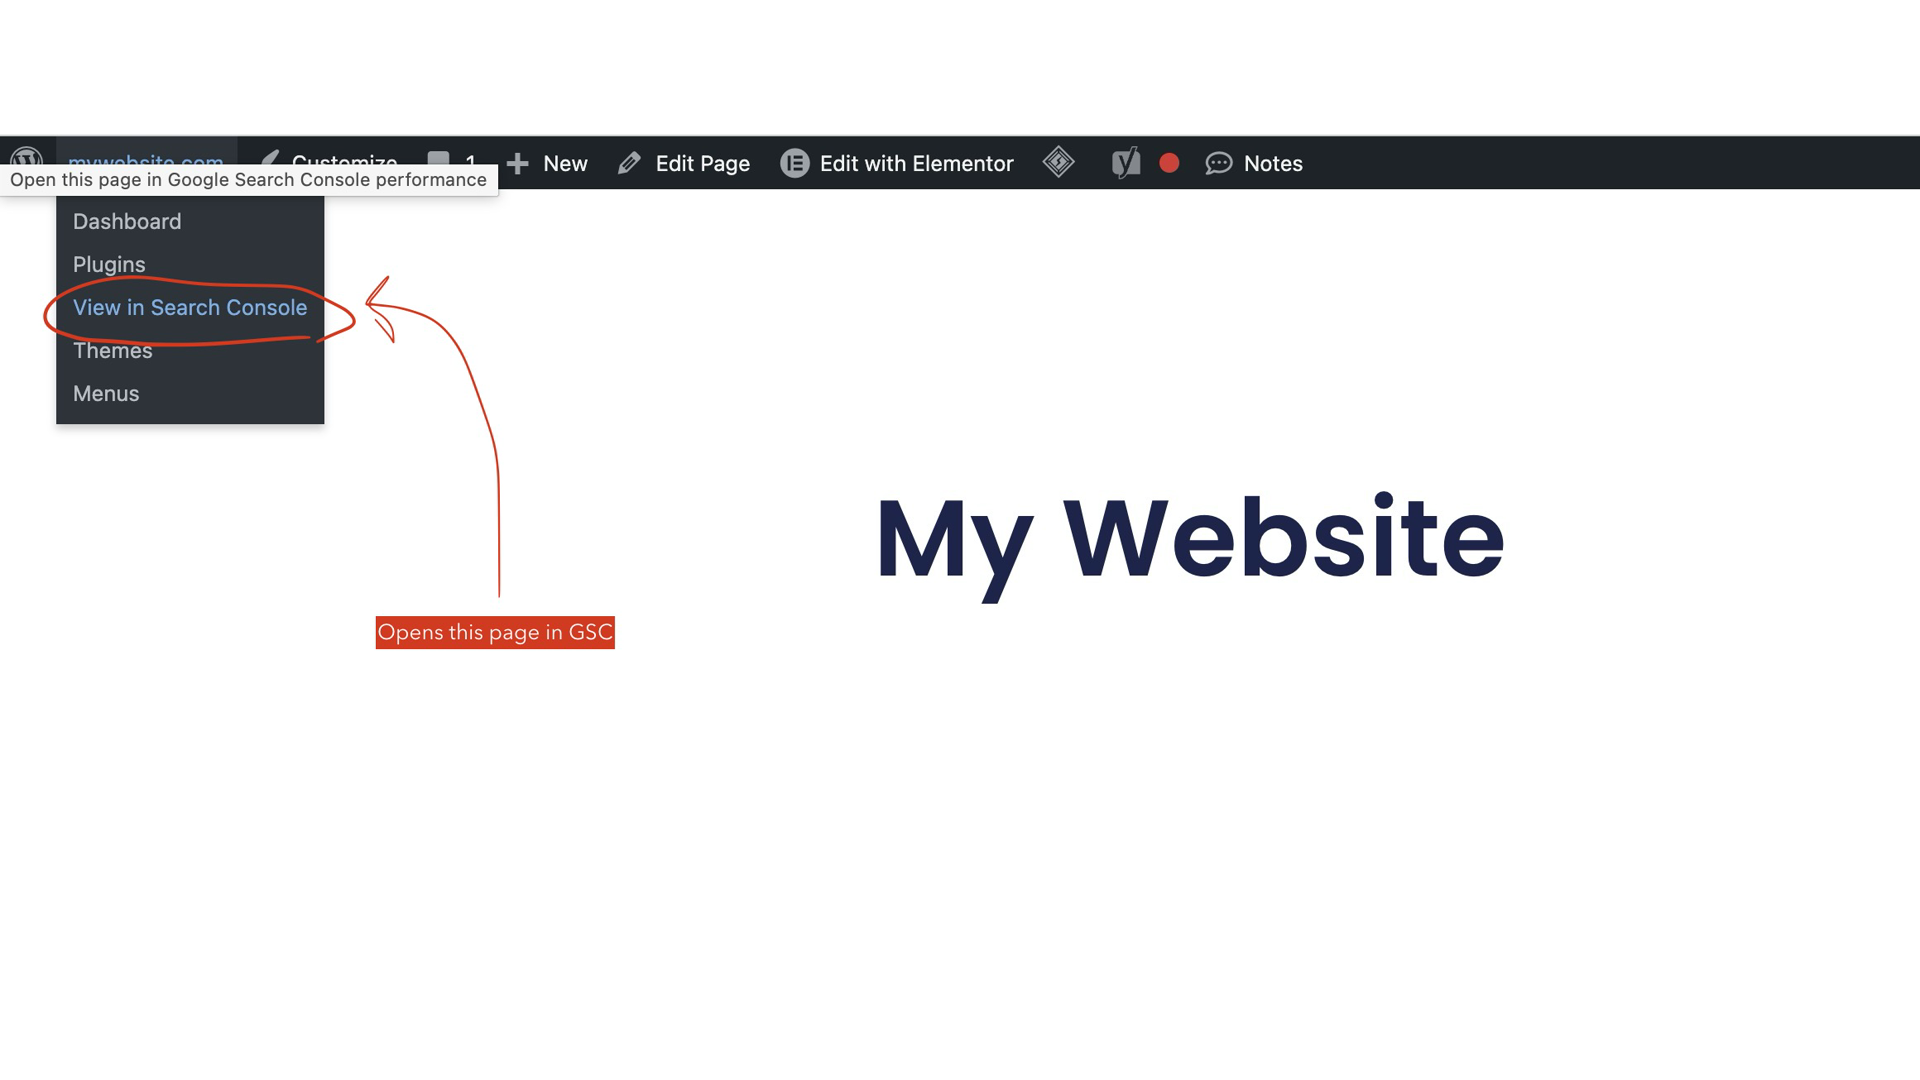
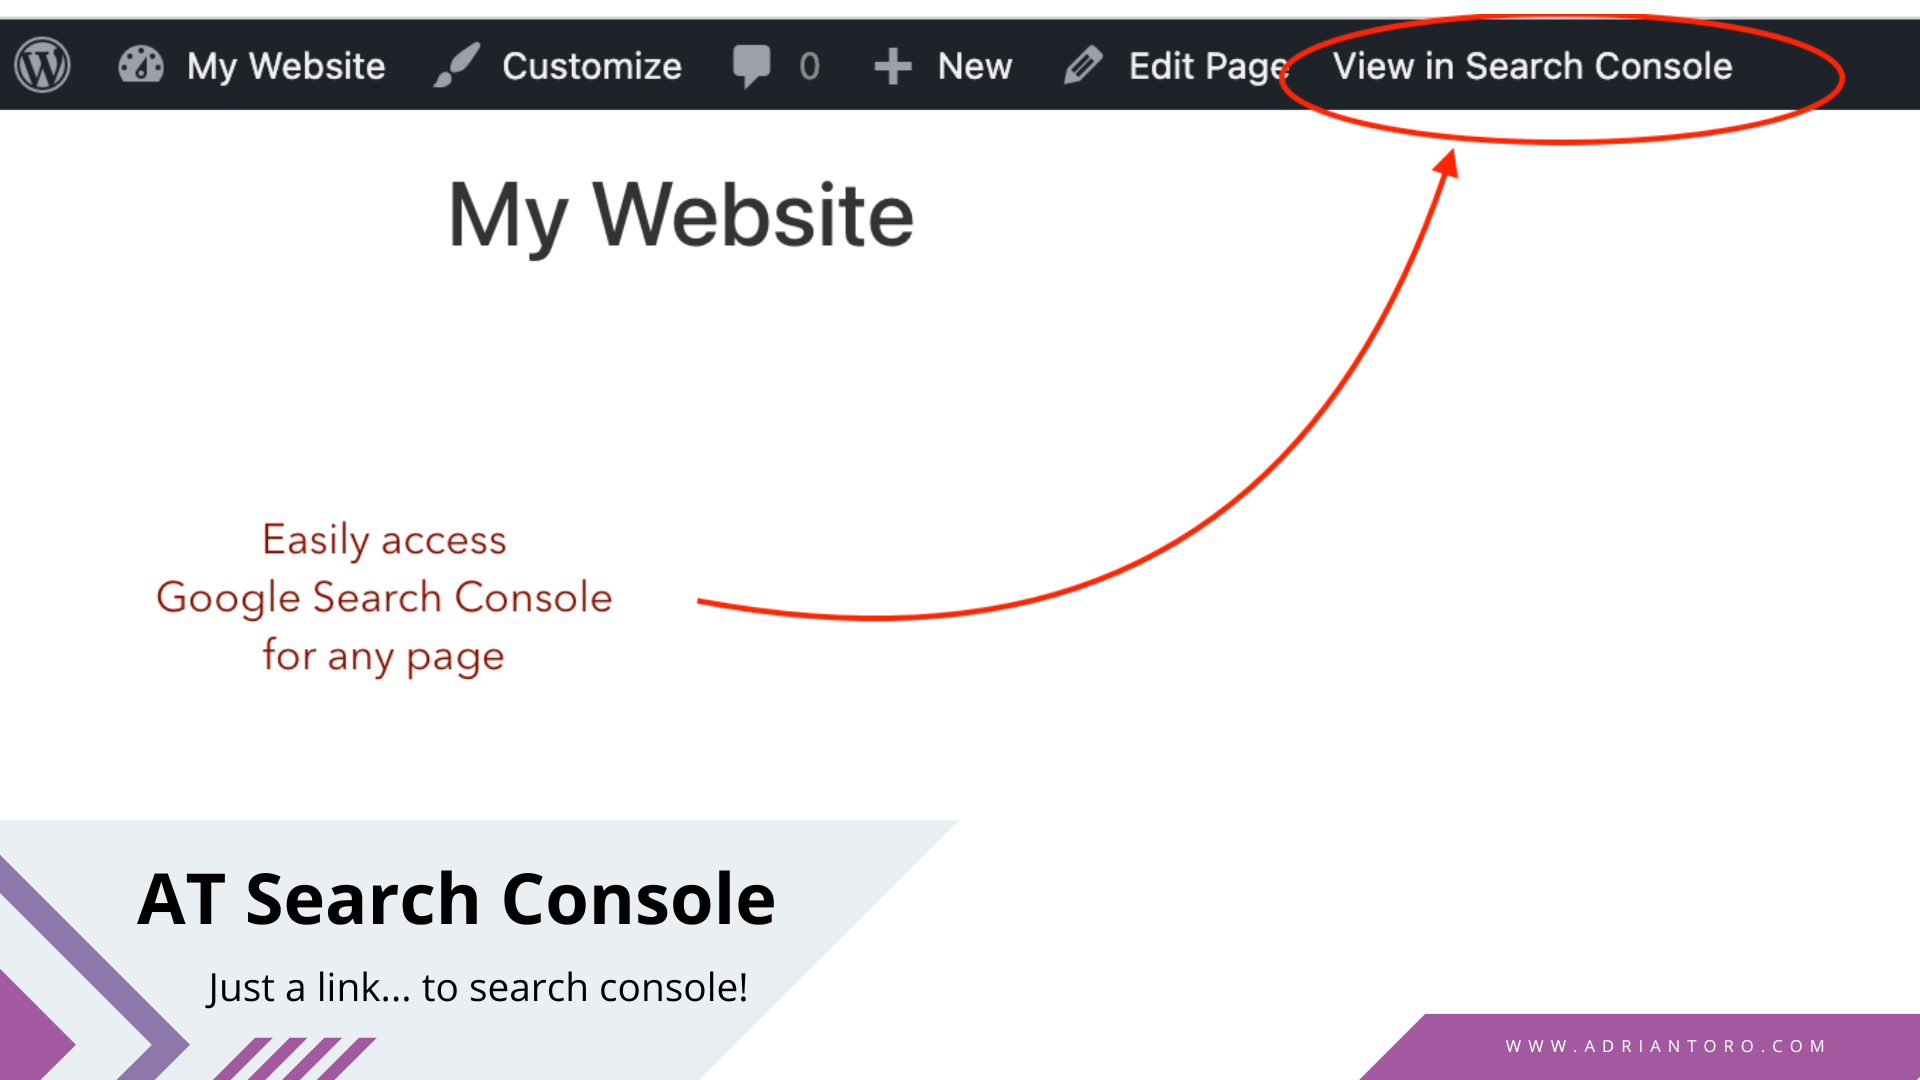
Release 1.2.2: restore desktop admin bar, mobile fallback, Advanced toggle
Top-level View in Search Console returns on desktop. Mobile uses a
duplicate node under site-name or edit (core whitelist) hidden on wide
screens via CSS. Custom property field collapses behind Advanced ».

diff --git a/js/settings.js b/js/settings.js
@@ -5,6 +5,8 @@
 	var custom = document.getElementById( 'at-sc-custom-resource-id' );
 	var testLink = document.getElementById( 'at-sc-test-property' );
 	var preview = document.getElementById( 'at-sc-preview-resource-id' );
+	var advancedRow = document.getElementById( 'at-sc-advanced-row' );
+	var advancedToggle = document.getElementById( 'at-sc-advanced-toggle' );
 	var base = window.atSearchConsoleSettings && window.atSearchConsoleSettings.performanceBase;
 
 	if ( ! base || ! select || ! testLink ) {
@@ -35,6 +37,22 @@
 		if ( resourceId ) {
 			testLink.href = buildTestUrl( resourceId );
 		}
+	}
+
+	function setAdvancedOpen( open ) {
+		if ( ! advancedRow || ! advancedToggle ) {
+			return;
+		}
+		advancedRow.style.display = open ? '' : 'none';
+		advancedToggle.setAttribute( 'aria-expanded', open ? 'true' : 'false' );
+		advancedToggle.textContent = open ? 'Advanced \u00ab' : 'Advanced \u00bb';
+	}
+
+	if ( advancedRow && advancedToggle ) {
+		setAdvancedOpen( custom && custom.value ? !! custom.value.trim() : false );
+		advancedToggle.addEventListener( 'click', function () {
+			setAdvancedOpen( advancedRow.style.display === 'none' );
+		} );
 	}
 
 	select.addEventListener( 'change', update );

diff --git a/at-search-console.php b/at-search-console.php
@@ -3,7 +3,7 @@
  * Plugin Name: AT Search Console
  * Plugin URI:  https://adriantoro.com/wordpress-plugins/at-search-console/
  * Description: Open the current page in Google Search Console from the WordPress admin bar. One click to that URL's performance.
- * Version:     1.2.1
+ * Version:     1.2.2
  * Author:      Adrian Toro
  * Author URI:  https://adriantoro.com
  * Text Domain: at-search-console
@@ -21,7 +21,7 @@ final class AT_Search_Console {
 
 	const OPTION_KEY        = 'at_search_console_settings';
 	const LEGACY_OPTION_KEY   = 'at_search_console_option';
-	const VERSION             = '1.2.1';
+	const VERSION             = '1.2.2';
 	const INSTALL_SLUG        = 'at-search-console';
 	const GSC_PERFORMANCE_URL = 'https://search.google.com/search-console/performance/search-analytics';
 
@@ -29,6 +29,8 @@ final class AT_Search_Console {
 		add_action( 'plugins_loaded', array( __CLASS__, 'maybe_migrate_legacy_option' ), 5 );
 		add_action( 'plugins_loaded', array( __CLASS__, 'maybe_migrate_property_type' ), 6 );
 		add_action( 'admin_bar_menu', array( $this, 'add_admin_bar_item' ), 100 );
+		add_action( 'wp_enqueue_scripts', array( $this, 'enqueue_admin_bar_styles' ) );
+		add_action( 'admin_enqueue_scripts', array( $this, 'enqueue_admin_bar_styles' ) );
 		add_action( 'admin_menu', array( $this, 'register_settings_page' ) );
 		add_action( 'admin_init', array( $this, 'register_settings' ) );
 		add_action( 'admin_init', array( $this, 'maybe_dismiss_setup_notice' ) );
@@ -450,8 +452,16 @@ final class AT_Search_Console {
 							</p>
 						</td>
 					</tr>
-					<tr>
-						<th scope="row"><label for="at-sc-custom-resource-id"><?php echo esc_html__( 'Custom property (advanced)', 'at-search-console' ); ?></label></th>
+					<tr id="at-sc-advanced-toggle-row">
+						<th scope="row"></th>
+						<td>
+							<button type="button" class="button-link" id="at-sc-advanced-toggle" aria-expanded="false" aria-controls="at-sc-advanced-row">
+								<?php echo esc_html__( 'Advanced »', 'at-search-console' ); ?>
+							</button>
+						</td>
+					</tr>
+					<tr id="at-sc-advanced-row" style="display:none;">
+						<th scope="row"><label for="at-sc-custom-resource-id"><?php echo esc_html__( 'Custom property', 'at-search-console' ); ?></label></th>
 						<td>
 							<input type="text" class="large-text code" name="<?php echo esc_attr( self::OPTION_KEY ); ?>[custom_resource_id]" id="at-sc-custom-resource-id" value="<?php echo esc_attr( $settings['custom_resource_id'] ); ?>" placeholder="sc-domain:example.com or https://www.example.com/" />
 							<p class="description"><?php echo esc_html__( 'Optional. Overrides the dropdown when your verified property is not listed above.', 'at-search-console' ); ?></p>
@@ -559,11 +569,30 @@ final class AT_Search_Console {
 	}
 
 	/**
-	 * Admin bar parent node. Core hides custom top-level items on narrow viewports.
-	 *
-	 * @return string|null Parent node id, or null when the link should not appear.
+	 * Hide the mobile-only admin bar duplicate on desktop widths.
 	 */
-	private function admin_bar_parent_id() {
+	public function enqueue_admin_bar_styles() {
+		if ( ! is_admin_bar_showing() ) {
+			return;
+		}
+
+		wp_register_style( 'at-search-console-admin-bar', false, array(), self::VERSION );
+		wp_enqueue_style( 'at-search-console-admin-bar' );
+		wp_add_inline_style(
+			'at-search-console-admin-bar',
+			'@media screen and (min-width:783px){#wpadminbar #wp-admin-bar-at-view-gsc-mobile{display:none!important;}}'
+		);
+	}
+
+	/**
+	 * Whitelisted parent for the mobile-only admin bar duplicate.
+	 *
+	 * WordPress hides custom top-level admin bar items below 783px; submenu items under
+	 * site-name (front end) or edit (post editor) remain visible.
+	 *
+	 * @return string|null Parent node id, or null when no mobile duplicate is needed.
+	 */
+	private function mobile_admin_bar_parent_id() {
 		if ( is_admin() ) {
 			$screen = function_exists( 'get_current_screen' ) ? get_current_screen() : null;
 			if ( $screen && 'post' === $screen->base ) {
@@ -573,6 +602,31 @@ final class AT_Search_Console {
 		}
 
 		return 'site-name';
+	}
+
+	/**
+	 * @param string      $page_url Page URL for the GSC filter.
+	 * @param string      $node_id  Admin bar node id.
+	 * @param string|null $parent   Optional parent node id.
+	 * @return array<string, mixed>
+	 */
+	private function admin_bar_node_args( $page_url, $node_id, $parent = null ) {
+		$args = array(
+			'id'    => $node_id,
+			'title' => __( 'View in Search Console', 'at-search-console' ),
+			'href'  => $this->build_gsc_url( $page_url ),
+			'meta'  => array(
+				'target' => '_blank',
+				'rel'    => 'noopener noreferrer',
+				'title'  => __( 'Open this page in Google Search Console performance', 'at-search-console' ),
+			),
+		);
+
+		if ( is_string( $parent ) && '' !== $parent ) {
+			$args['parent'] = $parent;
+		}
+
+		return $args;
 	}
 
 	/**
@@ -684,29 +738,21 @@ final class AT_Search_Console {
 			return;
 		}
 
-		$parent = $this->admin_bar_parent_id();
-		if ( null === $parent ) {
-			return;
-		}
-
 		$page_url = $this->current_page_url();
 		if ( '' === $page_url ) {
 			return;
 		}
 
-		$admin_bar->add_node(
-			array(
-				'id'     => 'at-view-gsc',
-				'parent' => $parent,
-				'title'  => __( 'View in Search Console', 'at-search-console' ),
-				'href'   => $this->build_gsc_url( $page_url ),
-				'meta'   => array(
-					'target' => '_blank',
-					'rel'    => 'noopener noreferrer',
-					'title'  => __( 'Open this page in Google Search Console performance', 'at-search-console' ),
-				),
-			)
-		);
+		// Desktop: top-level link (same placement as 1.2.0 and earlier).
+		$admin_bar->add_node( $this->admin_bar_node_args( $page_url, 'at-view-gsc' ) );
+
+		// Mobile: duplicate under a core-whitelisted parent (hidden on desktop via CSS).
+		$mobile_parent = $this->mobile_admin_bar_parent_id();
+		if ( null !== $mobile_parent ) {
+			$admin_bar->add_node(
+				$this->admin_bar_node_args( $page_url, 'at-view-gsc-mobile', $mobile_parent )
+			);
+		}
 	}
 }
 

diff --git a/bin/test-property-picker.php b/bin/test-property-picker.php
@@ -182,20 +182,27 @@ expect( 'test URL has no page filter', false === strpos( $test_url, 'page=' ) );
 
 $js = file_get_contents( dirname( __DIR__ ) . '/js/settings.js' );
 expect( 'settings.js updates test link from dropdown', false !== strpos( $js, 'testLink.href' ) && false !== strpos( $js, 'select.addEventListener' ) );
+expect( 'settings.js toggles advanced property row', false !== strpos( $js, 'at-sc-advanced-toggle' ) && false !== strpos( $js, 'setAdvancedOpen' ) );
 
 $GLOBALS['test_is_admin']    = false;
 $GLOBALS['test_screen_base'] = null;
 expect(
-	'front-end admin bar parent is site-name',
-	'site-name' === call_private( $obj, $plugin, 'admin_bar_parent_id' )
+	'front-end mobile admin bar parent is site-name',
+	'site-name' === call_private( $obj, $plugin, 'mobile_admin_bar_parent_id' )
 );
 
 $GLOBALS['test_is_admin']    = true;
 $GLOBALS['test_screen_base'] = 'post';
 expect(
-	'post editor admin bar parent is edit',
-	'edit' === call_private( $obj, $plugin, 'admin_bar_parent_id' )
+	'post editor mobile admin bar parent is edit',
+	'edit' === call_private( $obj, $plugin, 'mobile_admin_bar_parent_id' )
 );
+
+$desktop_node = call_private( $obj, $plugin, 'admin_bar_node_args', array( 'https://infoeplus.com/', 'at-view-gsc' ) );
+expect( 'desktop admin bar node has no parent', ! isset( $desktop_node['parent'] ) );
+
+$mobile_node = call_private( $obj, $plugin, 'admin_bar_node_args', array( 'https://infoeplus.com/', 'at-view-gsc-mobile', 'site-name' ) );
+expect( 'mobile admin bar node has parent', isset( $mobile_node['parent'] ) && 'site-name' === $mobile_node['parent'] );
 
 $GLOBALS['test_post_status'] = array( 42 => 'publish' );
 $GLOBALS['test_permalinks']  = array( 42 => 'https://infoeplus.com/hello/' );
